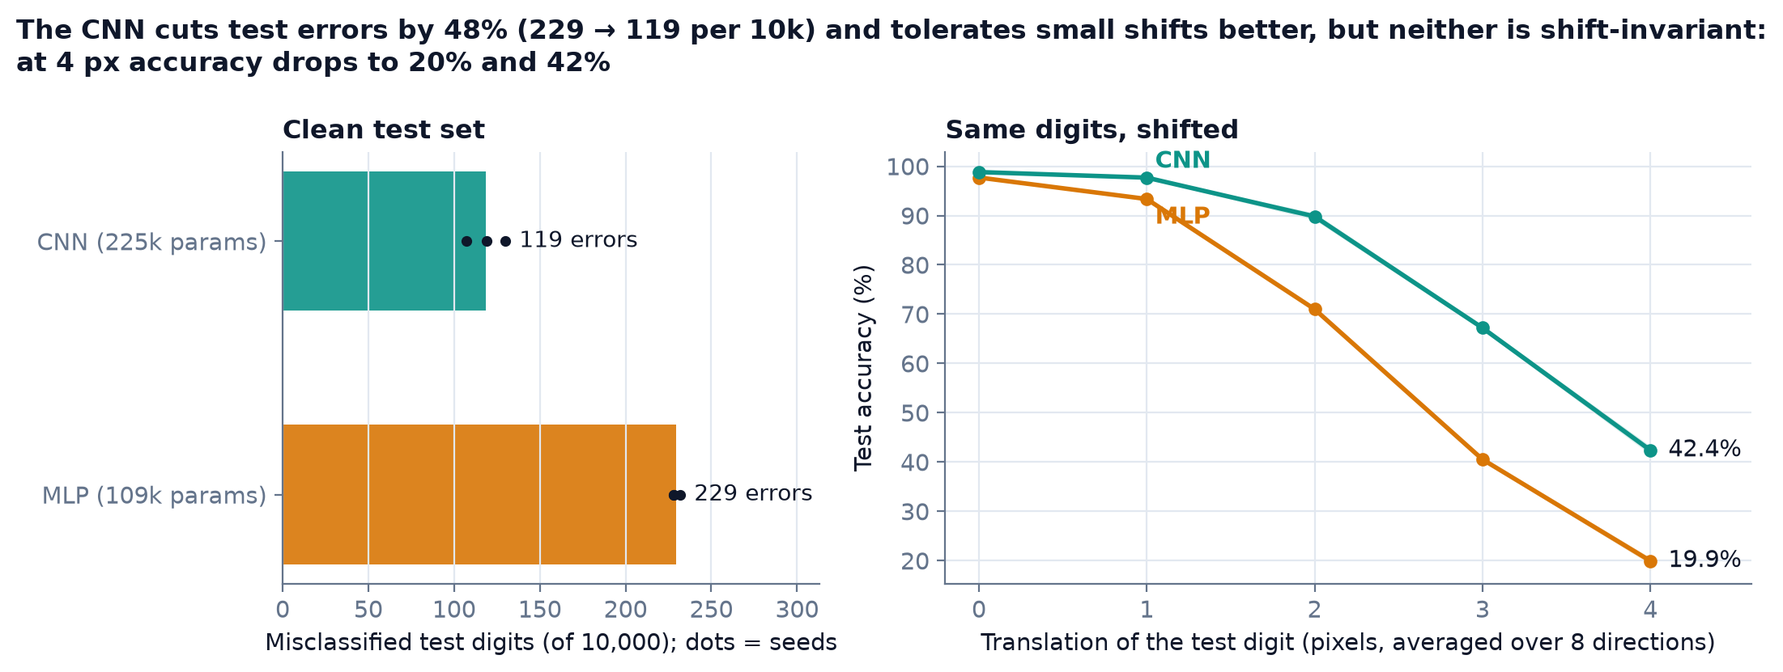
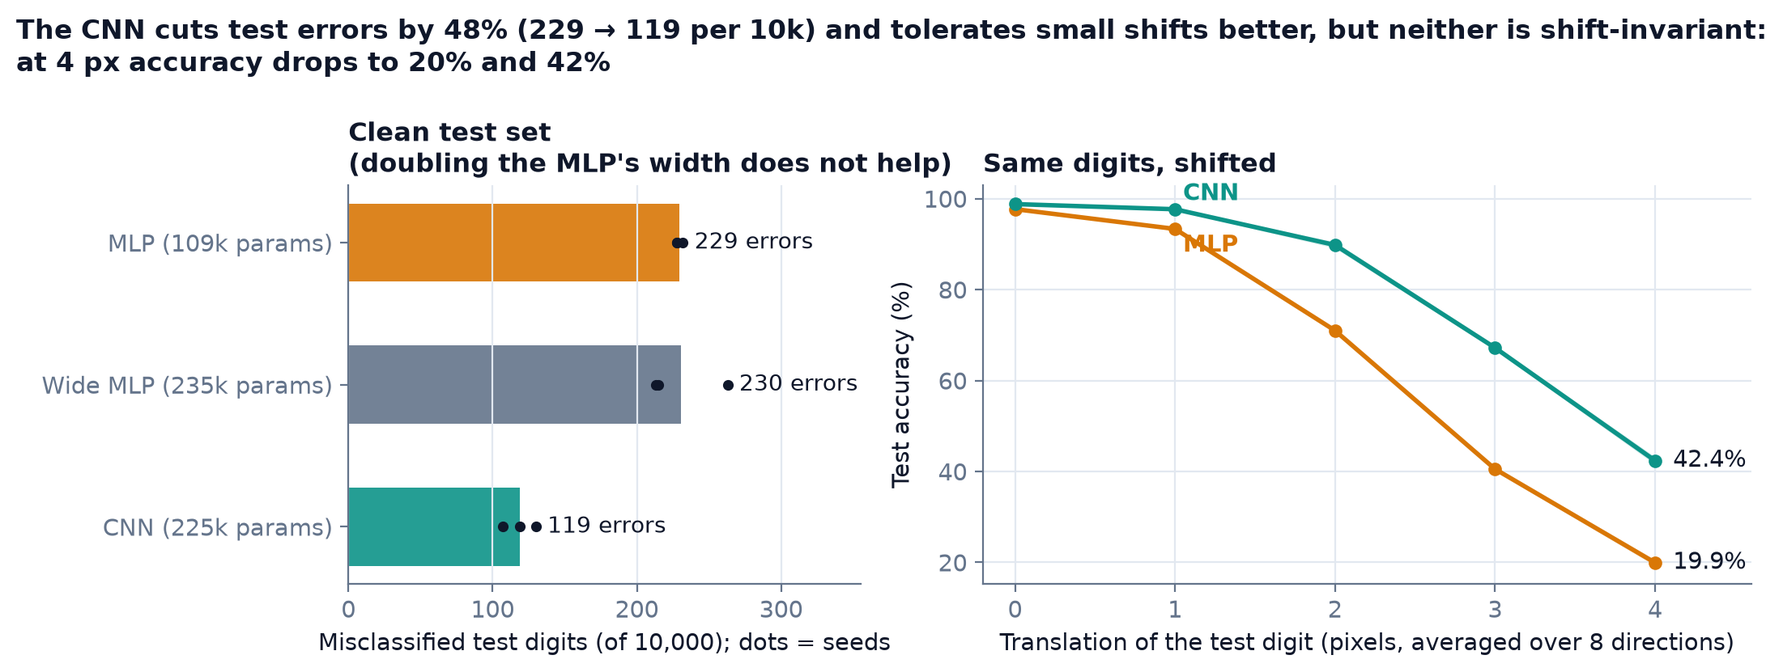
figures, report: show the capacity control and tighten wording
- Hero adds the wide MLP bar; other figures stay on the MLP/CNN comparison.
- Risk-coverage labels no longer cross the curves; budget label moved left.
- Reliability caption states that the diagram pools the seeds.
- Realised errors use two significant digits (0.015%, 0.059%).
- Report: capacity paragraph, calibration vs ranking, shift cropping note.
- shift.py docstring: 4 px shifts do crop some strokes (98.7% of ink kept).

diff --git a/site/index.html b/site/index.html
@@ -71,7 +71,7 @@ paired statistics, calibration, robustness to shifted inputs, and a concrete aut
 on the untouched 10,000-image test set. The <span class="amber">MLP</span> reaches 97.71% ± 0.02%,
 the <span class="teal">CNN</span> 98.81% ± 0.11% (mean ± sd across seeds).</p>
 <div id="c-errors" class="chart" style="height:240px"></div>
-<p class="takeaway">Within a model, seeds move the error count by at most 23 digits; switching architecture moves it by 111.</p>
+<p class="takeaway">Within the MLP or the CNN, seeds move the error count by at most 23 digits; switching architecture moves it by 111.</p>
 <p>Is the gap real or test-set luck? Two paired checks on the same 10,000 images. A paired bootstrap over
 test images puts the gain at +1.11 points (95% CI 0.90 to 1.32). McNemar's exact test, seed by
 seed, counts the digits only one model gets right: for seed 0, 44 digits only the MLP gets right
@@ -80,6 +80,12 @@ versus 165 only the CNN gets right (63 both miss); the largest p-value over seed
 <div class="scroll"><table>
 <thead><tr><th>Seed</th><th>Only MLP right</th><th>Only CNN right</th><th>Both wrong</th><th>McNemar p</th></tr></thead>
 <tbody><tr><td>0</td><td>44</td><td>165</td><td>63</td><td>1.2e-17</td></tr><tr><td>1</td><td>52</td><td>154</td><td>78</td><td>6.5e-13</td></tr><tr><td>2</td><td>53</td><td>162</td><td>66</td><td>4.9e-14</td></tr></tbody></table></div>
+<p><strong>Capacity or convolution?</strong> The CNN has about twice the MLP's parameters. A wider MLP
+(784-256-128-10, 235,146 parameters, more than the CNN) trained with the same recipe reaches
+97.70% ± 0.28%, i.e. 230 errors: no better than the small MLP. The CNN beats it by
++1.12 points (95% CI 0.92 to 1.32; largest McNemar p over seeds 4e-12), and the wide MLP
+is no more tolerant of shifts (70.9% at 2 px); under the error budget of section 3 it automates
+75.0% of the stream. Parameter count does not explain the gap.</p>
 
 <h2>2. Robustness: move the digit a few pixels</h2>
 <p>MNIST digits are centred by centre of mass. Real inputs rarely are. Each test digit is shifted by
@@ -96,15 +102,17 @@ with a budget of at most one error per 1,000 accepted digits (0.1%). The confide
 chosen on the validation split, then frozen and applied to the test set.</p>
 <div id="c-rc" class="chart"></div>
 <p class="takeaway">Under the same budget the MLP automates 68.2% of the test stream (realised error
-0.01%), the CNN 90.8% (realised error 0.06%): the manual queue shrinks from 31.8% to
+0.015%), the CNN 90.8% (realised error 0.059%): the manual queue shrinks from 31.8% to
 9.3% of the stream, a far larger gap than the 1.11-point accuracy difference suggests. The thresholds are
 conservative: with hindsight (tuning on the test set itself, which a real deployment cannot do) the same
 budget would allow 82.4% and 93.4%. The 6,000-digit validation split simply contains few
 errors to calibrate a 0.1% threshold on, and the MLP pays more for that caution.</p>
 
 <h2>4. Can the confidences be trusted?</h2>
-<p>Expected calibration error (15 equal-width bins): MLP 0.48%, CNN 0.24%. Points on the
-diagonal mean "90% confident" is right about 90% of the time.</p>
+<p>Expected calibration error (15 equal-width bins, mean over seeds): MLP 0.48%, CNN 0.24%.
+Points on the diagonal mean "90% confident" is right about 90% of the time. The diagram pools the
+3 seeds; over 93% of digits fall in the top bin, which dominates the ECE. Good calibration lets the
+score be read as a probability; the threshold rule of section 3 only needs the ranking of confidences.</p>
 <div id="c-rel" class="chart"></div>
 
 <h2>5. Where the errors are</h2>
@@ -116,13 +124,14 @@ diagonal mean "90% confident" is right about 90% of the time.</p>
 <div id="c-lc" class="chart" style="height:300px"></div>
 <div class="scroll"><table>
 <thead><tr><th>Model</th><th>Seed</th><th>Params</th><th>Best/run epochs</th><th>Val acc</th><th>Test acc</th><th>Test errors</th><th>Test NLL</th><th>ECE</th></tr></thead>
-<tbody><tr><td>MLP</td><td>0</td><td>109,386</td><td>8/10</td><td>97.45%</td><td>97.72%</td><td>228</td><td>0.0742</td><td>0.53%</td></tr><tr><td>MLP</td><td>1</td><td>109,386</td><td>8/10</td><td>97.37%</td><td>97.68%</td><td>232</td><td>0.0788</td><td>0.52%</td></tr><tr><td>MLP</td><td>2</td><td>109,386</td><td>8/10</td><td>97.42%</td><td>97.72%</td><td>228</td><td>0.0746</td><td>0.39%</td></tr><tr><td>CNN</td><td>0</td><td>225,034</td><td>4/6</td><td>98.77%</td><td>98.93%</td><td>107</td><td>0.0315</td><td>0.18%</td></tr><tr><td>CNN</td><td>1</td><td>225,034</td><td>4/6</td><td>98.58%</td><td>98.70%</td><td>130</td><td>0.0395</td><td>0.35%</td></tr><tr><td>CNN</td><td>2</td><td>225,034</td><td>4/6</td><td>98.75%</td><td>98.81%</td><td>119</td><td>0.0355</td><td>0.20%</td></tr></tbody></table></div>
+<tbody><tr><td>MLP</td><td>0</td><td>109,386</td><td>8/10</td><td>97.45%</td><td>97.72%</td><td>228</td><td>0.0742</td><td>0.53%</td></tr><tr><td>MLP</td><td>1</td><td>109,386</td><td>8/10</td><td>97.37%</td><td>97.68%</td><td>232</td><td>0.0788</td><td>0.52%</td></tr><tr><td>MLP</td><td>2</td><td>109,386</td><td>8/10</td><td>97.42%</td><td>97.72%</td><td>228</td><td>0.0746</td><td>0.39%</td></tr><tr><td>CNN</td><td>0</td><td>225,034</td><td>4/6</td><td>98.77%</td><td>98.93%</td><td>107</td><td>0.0315</td><td>0.18%</td></tr><tr><td>CNN</td><td>1</td><td>225,034</td><td>4/6</td><td>98.58%</td><td>98.70%</td><td>130</td><td>0.0395</td><td>0.35%</td></tr><tr><td>CNN</td><td>2</td><td>225,034</td><td>4/6</td><td>98.75%</td><td>98.81%</td><td>119</td><td>0.0355</td><td>0.20%</td></tr><tr><td>Wide MLP</td><td>0</td><td>235,146</td><td>7/9</td><td>97.70%</td><td>97.87%</td><td>213</td><td>0.0729</td><td>0.76%</td></tr><tr><td>Wide MLP</td><td>1</td><td>235,146</td><td>4/6</td><td>97.18%</td><td>97.37%</td><td>263</td><td>0.0855</td><td>0.43%</td></tr><tr><td>Wide MLP</td><td>2</td><td>235,146</td><td>4/6</td><td>97.50%</td><td>97.85%</td><td>215</td><td>0.0700</td><td>0.44%</td></tr></tbody></table></div>
 
 <h2>Limitations</h2>
 <ul>
 <li>3 seeds per model is enough to show the seed spread is small next to the gap, not to estimate it precisely.</li>
-<li>Neither architecture is tuned (no augmentation, no learning-rate schedule, no hyper-parameter search); the comparison is between two textbook models of similar size, not between the best of each family.</li>
-<li>The translation test is synthetic; it isolates one property (shift sensitivity) rather than modelling a real capture process.</li>
+<li>Neither architecture is tuned (no augmentation, no learning-rate schedule, no hyper-parameter search); the comparison is between two textbook models of the same order of size (the CNN has about twice the parameters), not between the best of each family.</li>
+<li>Architecture and capacity are separated by one control only: the wide MLP matches the CNN's parameter count, but both MLPs use dropout and the CNN does not, and no regularisation was tuned for either.</li>
+<li>The translation test is synthetic; it isolates one property (shift sensitivity) rather than modelling a real capture process. Diagonal directions move <em>d</em> px along each axis, and at 4 px about a quarter of shifted digits lose some stroke at the border (98.7% of ink kept on average), so part of the 4 px drop is lost information, not fragility.</li>
 <li>The 0.1% budget threshold is set on 6,000 validation digits, i.e. about six tolerated errors, so it is itself noisy; the realised test error is reported next to it.</li>
 </ul>
 
@@ -132,8 +141,8 @@ Built by <a href="https://github.com/Pchambet">Pierre Chambet</a> — decision s
 </footer>
 </main>
 <script>
-const D = {"runs": [{"model": "mlp", "seed": "0", "params": "109386", "epochs_run": "10", "best_epoch": "8", "train_seconds": "37.6", "val_accuracy": "0.974496", "test_accuracy": "0.9772", "test_errors": "228", "test_nll": "0.074188", "test_ece": "0.005285"}, {"model": "mlp", "seed": "1", "params": "109386", "epochs_run": "10", "best_epoch": "8", "train_seconds": "28.8", "val_accuracy": "0.973662", "test_accuracy": "0.9768", "test_errors": "232", "test_nll": "0.078802", "test_ece": "0.005169"}, {"model": "mlp", "seed": "2", "params": "109386", "epochs_run": "10", "best_epoch": "8", "train_seconds": "28.2", "val_accuracy": "0.974162", "test_accuracy": "0.9772", "test_errors": "228", "test_nll": "0.074635", "test_ece": "0.003874"}, {"model": "cnn", "seed": "0", "params": "225034", "epochs_run": "6", "best_epoch": "4", "train_seconds": "241.6", "val_accuracy": "0.987665", "test_accuracy": "0.9893", "test_errors": "107", "test_nll": "0.031523", "test_ece": "0.001799"}, {"model": "cnn", "seed": "1", "params": "225034", "epochs_run": "6", "best_epoch": "4", "train_seconds": "240.8", "val_accuracy": "0.985831", "test_accuracy": "0.987", "test_errors": "130", "test_nll": "0.039478", "test_ece": "0.003471"}, {"model": "cnn", "seed": "2", "params": "225034", "epochs_run": "6", "best_epoch": "4", "train_seconds": "196.5", "val_accuracy": "0.987498", "test_accuracy": "0.9881", "test_errors": "119", "test_nll": "0.035527", "test_ece": "0.001989"}], "shift": {"mlp": {"0": [0.9772, 0.9768, 0.9772], "1": [0.935963, 0.92935, 0.935175], "2": [0.705987, 0.71005, 0.713812], "3": [0.405975, 0.401587, 0.408237], "4": [0.206825, 0.193112, 0.1981]}, "cnn": {"0": [0.9893, 0.987, 0.9881], "1": [0.978988, 0.976225, 0.9753], "2": [0.904138, 0.899887, 0.890463], "3": [0.677037, 0.668087, 0.671087], "4": [0.422425, 0.415975, 0.43315]}}, "rc": {"mlp": {"x": [0.5, 0.505, 0.51, 0.515, 0.52, 0.525, 0.53, 0.535, 0.54, 0.545, 0.55, 0.555, 0.56, 0.565, 0.57, 0.575, 0.58, 0.585, 0.59, 0.595, 0.6, 0.605, 0.61, 0.615, 0.62, 0.625, 0.63, 0.635, 0.64, 0.645, 0.65, 0.655, 0.66, 0.665, 0.67, 0.675, 0.68, 0.685, 0.69, 0.695, 0.7, 0.705, 0.71, 0.715, 0.72, 0.725, 0.73, 0.735, 0.74, 0.745, 0.75, 0.755, 0.76, 0.765, 0.77, 0.775, 0.78, 0.785, 0.79, 0.795, 0.8, 0.805, 0.81, 0.815, 0.82, 0.825, 0.83, 0.835, 0.84, 0.845, 0.85, 0.855, 0.86, 0.865, 0.87, 0.875, 0.88, 0.885, 0.89, 0.895, 0.9, 0.905, 0.91, 0.915, 0.92, 0.925, 0.93, 0.935, 0.94, 0.945, 0.95, 0.955, 0.96, 0.965, 0.97, 0.975, 0.98, 0.985, 0.99, 0.995, 1.0], "y": [0.0, 0.0, 0.0, 0.0, 0.0, 0.0, 0.0, 0.0, 0.0, 6.1e-05, 6.1e-05, 6e-05, 6e-05, 5.9e-05, 5.8e-05, 5.8e-05, 5.7e-05, 5.7e-05, 0.000113, 0.000112, 0.000111, 0.00011, 0.000109, 0.000108, 0.000108, 0.000107, 0.000106, 0.000105, 0.000104, 0.000103, 0.000103, 0.000102, 0.000101, 0.0001, 0.000149, 0.000148, 0.000196, 0.000195, 0.000193, 0.000192, 0.00019, 0.000236, 0.000235, 0.000233, 0.000278, 0.000276, 0.00032, 0.000317, 0.000315, 0.000313, 0.000356, 0.000397, 0.000395, 0.000392, 0.000476, 0.000473, 0.000513, 0.000552, 0.000591, 0.000629, 0.00075, 0.000787, 0.000823, 0.000818, 0.000976, 0.00101, 0.001165, 0.001238, 0.00131, 0.001302, 0.001529, 0.00152, 0.001783, 0.00185, 0.002107, 0.002362, 0.002462, 0.002486, 0.002584, 0.002644, 0.002926, 0.00302, 0.00337, 0.003424, 0.003949, 0.004396, 0.004695, 0.004991, 0.005532, 0.006102, 0.006982, 0.0074, 0.008368, 0.009534, 0.010928, 0.012, 0.013776, 0.015431, 0.017609, 0.020034, 0.022933]}, "cnn": {"x": [0.5, 0.505, 0.51, 0.515, 0.52, 0.525, 0.53, 0.535, 0.54, 0.545, 0.55, 0.555, 0.56, 0.565, 0.57, 0.575, 0.58, 0.585, 0.59, 0.595, 0.6, 0.605, 0.61, 0.615, 0.62, 0.625, 0.63, 0.635, 0.64, 0.645, 0.65, 0.655, 0.66, 0.665, 0.67, 0.675, 0.68, 0.685, 0.69, 0.695, 0.7, 0.705, 0.71, 0.715, 0.72, 0.725, 0.73, 0.735, 0.74, 0.745, 0.75, 0.755, 0.76, 0.765, 0.77, 0.775, 0.78, 0.785, 0.79, 0.795, 0.8, 0.805, 0.81, 0.815, 0.82, 0.825, 0.83, 0.835, 0.84, 0.845, 0.85, 0.855, 0.86, 0.865, 0.87, 0.875, 0.88, 0.885, 0.89, 0.895, 0.9, 0.905, 0.91, 0.915, 0.92, 0.925, 0.93, 0.935, 0.94, 0.945, 0.95, 0.955, 0.96, 0.965, 0.97, 0.975, 0.98, 0.985, 0.99, 0.995, 1.0], "y": [0.0, 0.0, 0.0, 0.0, 0.0, 0.0, 0.0, 0.0, 0.0, 0.0, 0.0, 0.0, 0.0, 0.0, 0.0, 0.0, 0.0, 0.0, 0.0, 0.0, 0.0, 0.0, 0.0, 0.0, 0.0, 0.0, 0.0, 0.0, 0.0, 0.0, 0.0, 0.0, 0.0, 0.0, 0.0, 0.0, 0.0, 0.0, 0.0, 0.0, 4.8e-05, 4.7e-05, 4.7e-05, 4.7e-05, 4.6e-05, 4.6e-05, 4.6e-05, 4.5e-05, 9e-05, 8.9e-05, 8.9e-05, 8.8e-05, 8.8e-05, 0.000131, 0.000173, 0.000172, 0.000171, 0.00017, 0.000211, 0.00021, 0.000208, 0.000207, 0.000206, 0.000204, 0.000203, 0.000202, 0.000201, 0.00024, 0.000238, 0.000237, 0.000235, 0.000273, 0.000271, 0.00027, 0.000345, 0.000381, 0.000379, 0.000452, 0.000449, 0.000447, 0.000519, 0.000552, 0.000586, 0.000729, 0.000725, 0.000829, 0.001039, 0.001212, 0.001383, 0.001552, 0.001719, 0.00199, 0.002118, 0.002453, 0.002887, 0.003487, 0.004524, 0.005787, 0.00734, 0.00928, 0.011867]}}, "rel": {"mlp": {"x": [0.250333, 0.299662, 0.372533, 0.434442, 0.503477, 0.564116, 0.6341, 0.703217, 0.767691, 0.835397, 0.903526, 0.997099], "y": [0.0, 0.2, 0.40625, 0.44898, 0.47619, 0.513812, 0.64881, 0.642105, 0.764463, 0.792135, 0.877517, 0.995006], "n": [2, 5, 32, 49, 147, 181, 168, 190, 242, 356, 596, 28032]}, "cnn": {"x": [0.251832, 0.299552, 0.370574, 0.436044, 0.504921, 0.567232, 0.636144, 0.69835, 0.771046, 0.836204, 0.90542, 0.998067], "y": [0.0, 0.5, 0.222222, 0.291667, 0.486111, 0.612903, 0.603604, 0.719298, 0.705882, 0.795699, 0.907781, 0.997544], "n": [1, 2, 9, 24, 72, 93, 111, 114, 136, 186, 347, 28905]}}, "lc": {"mlp|0": {"x": [1, 2, 3, 4, 5, 6, 7, 8, 9, 10], "y": [0.190585, 0.14004, 0.109203, 0.099635, 0.091008, 0.091568, 0.090112, 0.089724, 0.096549, 0.091101]}, "mlp|1": {"x": [1, 2, 3, 4, 5, 6, 7, 8, 9, 10], "y": [0.199384, 0.139483, 0.118554, 0.101779, 0.095743, 0.093194, 0.093634, 0.089334, 0.090413, 0.090308]}, "mlp|2": {"x": [1, 2, 3, 4, 5, 6, 7, 8, 9, 10], "y": [0.18016, 0.134014, 0.107996, 0.09635, 0.090398, 0.08589, 0.084463, 0.081902, 0.088632, 0.083011]}, "cnn|0": {"x": [1, 2, 3, 4, 5, 6], "y": [0.080429, 0.058647, 0.047417, 0.043901, 0.045862, 0.045899]}, "cnn|1": {"x": [1, 2, 3, 4, 5, 6], "y": [0.073891, 0.061324, 0.050676, 0.043554, 0.048997, 0.055597]}, "cnn|2": {"x": [1, 2, 3, 4, 5, 6], "y": [0.079884, 0.056562, 0.046871, 0.045564, 0.046403, 0.047933]}}};
-const S = {"error_budget": 0.001, "n_test": 10000, "models": {"mlp": {"seeds": [0, 1, 2], "params": 109386, "test_accuracy_mean": 0.977067, "test_accuracy_std": 0.000231, "test_errors_mean": 229.3, "ece_mean": 0.004776, "nll_mean": 0.075875, "shift_accuracy_mean": [0.977067, 0.933496, 0.70995, 0.405267, 0.199346], "shift_accuracy_std": [0.000231, 0.003612, 0.003913, 0.003381, 0.006941], "error_budget_runs": [{"seed": 0, "threshold": 0.999499, "test_coverage": 0.6727, "test_error": 0.000297, "oracle_test_coverage": 0.8235}, {"seed": 1, "threshold": 0.999295, "test_coverage": 0.6635, "test_error": 0.0, "oracle_test_coverage": 0.829}, {"seed": 2, "threshold": 0.998541, "test_coverage": 0.7101, "test_error": 0.000141, "oracle_test_coverage": 0.8199}], "error_budget_coverage_mean": 0.6821, "error_budget_error_mean": 0.000146, "error_budget_oracle_coverage_mean": 0.824133, "top_confusions": [[4, 9, 43], [7, 2, 33], [3, 5, 29], [6, 0, 21], [9, 4, 21]]}, "cnn": {"seeds": [0, 1, 2], "params": 225034, "test_accuracy_mean": 0.988133, "test_accuracy_std": 0.00115, "test_errors_mean": 118.7, "ece_mean": 0.00242, "nll_mean": 0.035509, "shift_accuracy_mean": [0.988133, 0.976837, 0.898163, 0.672071, 0.42385], "shift_accuracy_std": [0.00115, 0.001919, 0.006999, 0.004555, 0.008676], "error_budget_runs": [{"seed": 0, "threshold": 0.992942, "test_coverage": 0.9123, "test_error": 0.000548, "oracle_test_coverage": 0.9489}, {"seed": 1, "threshold": 0.992211, "test_coverage": 0.908, "test_error": 0.000551, "oracle_test_coverage": 0.925}, {"seed": 2, "threshold": 0.990728, "test_coverage": 0.9022, "test_error": 0.000665, "oracle_test_coverage": 0.929}], "error_budget_coverage_mean": 0.9075, "error_budget_error_mean": 0.000588, "error_budget_oracle_coverage_mean": 0.9343, "top_confusions": [[4, 9, 29], [2, 7, 19], [5, 3, 19], [6, 0, 16], [7, 2, 16]]}}, "comparison": {"accuracy_gain_cnn_minus_mlp": 0.011067, "bootstrap_95ci": [0.009033, 0.013233], "mcnemar_per_seed": [{"seed": 0, "only_mlp_correct": 44, "only_cnn_correct": 165, "both_wrong": 63, "p_value": 1.15e-17}, {"seed": 1, "only_mlp_correct": 52, "only_cnn_correct": 154, "both_wrong": 78, "p_value": 6.54e-13}, {"seed": 2, "only_mlp_correct": 53, "only_cnn_correct": 162, "both_wrong": 66, "p_value": 4.94e-14}]}, "gallery": [{"index": 9770, "label": 5, "cnn_pred": 0, "cnn_conf": 1.0, "mlp_pred": 0}, {"index": 2654, "label": 6, "cnn_pred": 1, "cnn_conf": 0.999, "mlp_pred": 1}, {"index": 2896, "label": 8, "cnn_pred": 0, "cnn_conf": 0.997, "mlp_pred": 0}, {"index": 3520, "label": 6, "cnn_pred": 4, "cnn_conf": 0.996, "mlp_pred": 4}, {"index": 947, "label": 8, "cnn_pred": 9, "cnn_conf": 0.993, "mlp_pred": 9}, {"index": 9729, "label": 5, "cnn_pred": 6, "cnn_conf": 0.986, "mlp_pred": 6}, {"index": 2953, "label": 3, "cnn_pred": 5, "cnn_conf": 0.985, "mlp_pred": 5}, {"index": 2130, "label": 4, "cnn_pred": 9, "cnn_conf": 0.983, "mlp_pred": 9}, {"index": 1319, "label": 8, "cnn_pred": 0, "cnn_conf": 0.978, "mlp_pred": 0}, {"index": 6597, "label": 0, "cnn_pred": 7, "cnn_conf": 0.973, "mlp_pred": 7}, {"index": 2135, "label": 6, "cnn_pred": 1, "cnn_conf": 0.969, "mlp_pred": 1}, {"index": 1226, "label": 7, "cnn_pred": 2, "cnn_conf": 0.968, "mlp_pred": 2}]};
+const D = {"runs": [{"model": "mlp", "seed": "0", "params": "109386", "epochs_run": "10", "best_epoch": "8", "train_seconds": "37.6", "val_accuracy": "0.974496", "test_accuracy": "0.9772", "test_errors": "228", "test_nll": "0.074188", "test_ece": "0.005285"}, {"model": "mlp", "seed": "1", "params": "109386", "epochs_run": "10", "best_epoch": "8", "train_seconds": "28.8", "val_accuracy": "0.973662", "test_accuracy": "0.9768", "test_errors": "232", "test_nll": "0.078802", "test_ece": "0.005169"}, {"model": "mlp", "seed": "2", "params": "109386", "epochs_run": "10", "best_epoch": "8", "train_seconds": "28.2", "val_accuracy": "0.974162", "test_accuracy": "0.9772", "test_errors": "228", "test_nll": "0.074635", "test_ece": "0.003874"}, {"model": "cnn", "seed": "0", "params": "225034", "epochs_run": "6", "best_epoch": "4", "train_seconds": "241.6", "val_accuracy": "0.987665", "test_accuracy": "0.9893", "test_errors": "107", "test_nll": "0.031523", "test_ece": "0.001799"}, {"model": "cnn", "seed": "1", "params": "225034", "epochs_run": "6", "best_epoch": "4", "train_seconds": "240.8", "val_accuracy": "0.985831", "test_accuracy": "0.987", "test_errors": "130", "test_nll": "0.039478", "test_ece": "0.003471"}, {"model": "cnn", "seed": "2", "params": "225034", "epochs_run": "6", "best_epoch": "4", "train_seconds": "196.5", "val_accuracy": "0.987498", "test_accuracy": "0.9881", "test_errors": "119", "test_nll": "0.035527", "test_ece": "0.001989"}, {"model": "mlp_wide", "seed": "0", "params": "235146", "epochs_run": "9", "best_epoch": "7", "train_seconds": "45.4", "val_accuracy": "0.976996", "test_accuracy": "0.9787", "test_errors": "213", "test_nll": "0.072905", "test_ece": "0.007551"}, {"model": "mlp_wide", "seed": "1", "params": "235146", "epochs_run": "6", "best_epoch": "4", "train_seconds": "30.8", "val_accuracy": "0.971829", "test_accuracy": "0.9737", "test_errors": "263", "test_nll": "0.085469", "test_ece": "0.004287"}, {"model": "mlp_wide", "seed": "2", "params": "235146", "epochs_run": "6", "best_epoch": "4", "train_seconds": "40.4", "val_accuracy": "0.974996", "test_accuracy": "0.9785", "test_errors": "215", "test_nll": "0.070016", "test_ece": "0.004401"}], "shift": {"mlp": {"0": [0.9772, 0.9768, 0.9772], "1": [0.935963, 0.92935, 0.935175], "2": [0.705987, 0.71005, 0.713812], "3": [0.405975, 0.401587, 0.408237], "4": [0.206825, 0.193112, 0.1981]}, "cnn": {"0": [0.9893, 0.987, 0.9881], "1": [0.978988, 0.976225, 0.9753], "2": [0.904138, 0.899887, 0.890463], "3": [0.677037, 0.668087, 0.671087], "4": [0.422425, 0.415975, 0.43315]}, "mlp_wide": {"0": [0.9787, 0.9737, 0.9785], "1": [0.943712, 0.923975, 0.93125], "2": [0.738325, 0.688512, 0.700113], "3": [0.439387, 0.400888, 0.399263], "4": [0.222188, 0.199988, 0.19335]}}, "rc": {"mlp": {"x": [0.5, 0.505, 0.51, 0.515, 0.52, 0.525, 0.53, 0.535, 0.54, 0.545, 0.55, 0.555, 0.56, 0.565, 0.57, 0.575, 0.58, 0.585, 0.59, 0.595, 0.6, 0.605, 0.61, 0.615, 0.62, 0.625, 0.63, 0.635, 0.64, 0.645, 0.65, 0.655, 0.66, 0.665, 0.67, 0.675, 0.68, 0.685, 0.69, 0.695, 0.7, 0.705, 0.71, 0.715, 0.72, 0.725, 0.73, 0.735, 0.74, 0.745, 0.75, 0.755, 0.76, 0.765, 0.77, 0.775, 0.78, 0.785, 0.79, 0.795, 0.8, 0.805, 0.81, 0.815, 0.82, 0.825, 0.83, 0.835, 0.84, 0.845, 0.85, 0.855, 0.86, 0.865, 0.87, 0.875, 0.88, 0.885, 0.89, 0.895, 0.9, 0.905, 0.91, 0.915, 0.92, 0.925, 0.93, 0.935, 0.94, 0.945, 0.95, 0.955, 0.96, 0.965, 0.97, 0.975, 0.98, 0.985, 0.99, 0.995, 1.0], "y": [0.0, 0.0, 0.0, 0.0, 0.0, 0.0, 0.0, 0.0, 0.0, 6.1e-05, 6.1e-05, 6e-05, 6e-05, 5.9e-05, 5.8e-05, 5.8e-05, 5.7e-05, 5.7e-05, 0.000113, 0.000112, 0.000111, 0.00011, 0.000109, 0.000108, 0.000108, 0.000107, 0.000106, 0.000105, 0.000104, 0.000103, 0.000103, 0.000102, 0.000101, 0.0001, 0.000149, 0.000148, 0.000196, 0.000195, 0.000193, 0.000192, 0.00019, 0.000236, 0.000235, 0.000233, 0.000278, 0.000276, 0.00032, 0.000317, 0.000315, 0.000313, 0.000356, 0.000397, 0.000395, 0.000392, 0.000476, 0.000473, 0.000513, 0.000552, 0.000591, 0.000629, 0.00075, 0.000787, 0.000823, 0.000818, 0.000976, 0.00101, 0.001165, 0.001238, 0.00131, 0.001302, 0.001529, 0.00152, 0.001783, 0.00185, 0.002107, 0.002362, 0.002462, 0.002486, 0.002584, 0.002644, 0.002926, 0.00302, 0.00337, 0.003424, 0.003949, 0.004396, 0.004695, 0.004991, 0.005532, 0.006102, 0.006982, 0.0074, 0.008368, 0.009534, 0.010928, 0.012, 0.013776, 0.015431, 0.017609, 0.020034, 0.022933]}, "cnn": {"x": [0.5, 0.505, 0.51, 0.515, 0.52, 0.525, 0.53, 0.535, 0.54, 0.545, 0.55, 0.555, 0.56, 0.565, 0.57, 0.575, 0.58, 0.585, 0.59, 0.595, 0.6, 0.605, 0.61, 0.615, 0.62, 0.625, 0.63, 0.635, 0.64, 0.645, 0.65, 0.655, 0.66, 0.665, 0.67, 0.675, 0.68, 0.685, 0.69, 0.695, 0.7, 0.705, 0.71, 0.715, 0.72, 0.725, 0.73, 0.735, 0.74, 0.745, 0.75, 0.755, 0.76, 0.765, 0.77, 0.775, 0.78, 0.785, 0.79, 0.795, 0.8, 0.805, 0.81, 0.815, 0.82, 0.825, 0.83, 0.835, 0.84, 0.845, 0.85, 0.855, 0.86, 0.865, 0.87, 0.875, 0.88, 0.885, 0.89, 0.895, 0.9, 0.905, 0.91, 0.915, 0.92, 0.925, 0.93, 0.935, 0.94, 0.945, 0.95, 0.955, 0.96, 0.965, 0.97, 0.975, 0.98, 0.985, 0.99, 0.995, 1.0], "y": [0.0, 0.0, 0.0, 0.0, 0.0, 0.0, 0.0, 0.0, 0.0, 0.0, 0.0, 0.0, 0.0, 0.0, 0.0, 0.0, 0.0, 0.0, 0.0, 0.0, 0.0, 0.0, 0.0, 0.0, 0.0, 0.0, 0.0, 0.0, 0.0, 0.0, 0.0, 0.0, 0.0, 0.0, 0.0, 0.0, 0.0, 0.0, 0.0, 0.0, 4.8e-05, 4.7e-05, 4.7e-05, 4.7e-05, 4.6e-05, 4.6e-05, 4.6e-05, 4.5e-05, 9e-05, 8.9e-05, 8.9e-05, 8.8e-05, 8.8e-05, 0.000131, 0.000173, 0.000172, 0.000171, 0.00017, 0.000211, 0.00021, 0.000208, 0.000207, 0.000206, 0.000204, 0.000203, 0.000202, 0.000201, 0.00024, 0.000238, 0.000237, 0.000235, 0.000273, 0.000271, 0.00027, 0.000345, 0.000381, 0.000379, 0.000452, 0.000449, 0.000447, 0.000519, 0.000552, 0.000586, 0.000729, 0.000725, 0.000829, 0.001039, 0.001212, 0.001383, 0.001552, 0.001719, 0.00199, 0.002118, 0.002453, 0.002887, 0.003487, 0.004524, 0.005787, 0.00734, 0.00928, 0.011867]}, "mlp_wide": {"x": [0.5, 0.505, 0.51, 0.515, 0.52, 0.525, 0.53, 0.535, 0.54, 0.545, 0.55, 0.555, 0.56, 0.565, 0.57, 0.575, 0.58, 0.585, 0.59, 0.595, 0.6, 0.605, 0.61, 0.615, 0.62, 0.625, 0.63, 0.635, 0.64, 0.645, 0.65, 0.655, 0.66, 0.665, 0.67, 0.675, 0.68, 0.685, 0.69, 0.695, 0.7, 0.705, 0.71, 0.715, 0.72, 0.725, 0.73, 0.735, 0.74, 0.745, 0.75, 0.755, 0.76, 0.765, 0.77, 0.775, 0.78, 0.785, 0.79, 0.795, 0.8, 0.805, 0.81, 0.815, 0.82, 0.825, 0.83, 0.835, 0.84, 0.845, 0.85, 0.855, 0.86, 0.865, 0.87, 0.875, 0.88, 0.885, 0.89, 0.895, 0.9, 0.905, 0.91, 0.915, 0.92, 0.925, 0.93, 0.935, 0.94, 0.945, 0.95, 0.955, 0.96, 0.965, 0.97, 0.975, 0.98, 0.985, 0.99, 0.995, 1.0], "y": [6.7e-05, 6.6e-05, 6.5e-05, 0.000129, 0.000128, 0.000127, 0.000126, 0.000125, 0.000123, 0.000122, 0.000121, 0.00012, 0.000119, 0.000118, 0.000117, 0.000116, 0.000115, 0.000114, 0.000113, 0.000112, 0.000111, 0.00011, 0.000109, 0.000108, 0.000108, 0.000107, 0.000106, 0.000105, 0.000156, 0.000207, 0.000205, 0.000204, 0.000202, 0.000201, 0.000199, 0.000198, 0.000245, 0.000243, 0.000242, 0.00024, 0.000238, 0.000236, 0.000235, 0.000233, 0.000231, 0.00023, 0.000228, 0.000227, 0.000225, 0.000268, 0.000311, 0.000309, 0.000395, 0.000392, 0.00039, 0.000387, 0.000385, 0.000382, 0.000464, 0.000461, 0.000542, 0.00058, 0.000617, 0.000654, 0.000813, 0.000848, 0.000884, 0.000958, 0.001151, 0.001302, 0.001294, 0.001365, 0.001589, 0.001618, 0.001724, 0.001829, 0.001894, 0.002109, 0.002434, 0.002644, 0.002741, 0.003094, 0.003223, 0.003607, 0.003841, 0.004216, 0.004588, 0.005134, 0.005674, 0.006349, 0.007123, 0.007679, 0.008646, 0.009637, 0.011031, 0.012513, 0.014524, 0.016142, 0.018114, 0.020302, 0.023033]}}, "rel": {"mlp": {"x": [0.250333, 0.299662, 0.372533, 0.434442, 0.503477, 0.564116, 0.6341, 0.703217, 0.767691, 0.835397, 0.903526, 0.997099], "y": [0.0, 0.2, 0.40625, 0.44898, 0.47619, 0.513812, 0.64881, 0.642105, 0.764463, 0.792135, 0.877517, 0.995006], "n": [2, 5, 32, 49, 147, 181, 168, 190, 242, 356, 596, 28032]}, "cnn": {"x": [0.251832, 0.299552, 0.370574, 0.436044, 0.504921, 0.567232, 0.636144, 0.69835, 0.771046, 0.836204, 0.90542, 0.998067], "y": [0.0, 0.5, 0.222222, 0.291667, 0.486111, 0.612903, 0.603604, 0.719298, 0.705882, 0.795699, 0.907781, 0.997544], "n": [1, 2, 9, 24, 72, 93, 111, 114, 136, 186, 347, 28905]}, "mlp_wide": {"x": [0.26291, 0.309317, 0.374389, 0.439732, 0.50482, 0.566351, 0.633935, 0.70151, 0.76812, 0.838517, 0.904729, 0.996884], "y": [0.0, 0.1, 0.518519, 0.387097, 0.548872, 0.56962, 0.604278, 0.633333, 0.746212, 0.811429, 0.87602, 0.994926], "n": [1, 10, 27, 62, 133, 158, 187, 210, 264, 350, 613, 27985]}}, "lc": {"mlp|0": {"x": [1, 2, 3, 4, 5, 6, 7, 8, 9, 10], "y": [0.190585, 0.14004, 0.109203, 0.099635, 0.091008, 0.091568, 0.090112, 0.089724, 0.096549, 0.091101]}, "mlp|1": {"x": [1, 2, 3, 4, 5, 6, 7, 8, 9, 10], "y": [0.199384, 0.139483, 0.118554, 0.101779, 0.095743, 0.093194, 0.093634, 0.089334, 0.090413, 0.090308]}, "mlp|2": {"x": [1, 2, 3, 4, 5, 6, 7, 8, 9, 10], "y": [0.18016, 0.134014, 0.107996, 0.09635, 0.090398, 0.08589, 0.084463, 0.081902, 0.088632, 0.083011]}, "cnn|0": {"x": [1, 2, 3, 4, 5, 6], "y": [0.080429, 0.058647, 0.047417, 0.043901, 0.045862, 0.045899]}, "cnn|1": {"x": [1, 2, 3, 4, 5, 6], "y": [0.073891, 0.061324, 0.050676, 0.043554, 0.048997, 0.055597]}, "cnn|2": {"x": [1, 2, 3, 4, 5, 6], "y": [0.079884, 0.056562, 0.046871, 0.045564, 0.046403, 0.047933]}, "mlp_wide|0": {"x": [1, 2, 3, 4, 5, 6, 7, 8, 9], "y": [0.147924, 0.114249, 0.101424, 0.087078, 0.081437, 0.080506, 0.079892, 0.081899, 0.087762]}, "mlp_wide|1": {"x": [1, 2, 3, 4, 5, 6], "y": [0.157477, 0.117628, 0.097936, 0.088516, 0.10695, 0.097057]}, "mlp_wide|2": {"x": [1, 2, 3, 4, 5, 6], "y": [0.152462, 0.10312, 0.091016, 0.078554, 0.083232, 0.078743]}}};
+const S = {"error_budget": 0.001, "n_test": 10000, "models": {"mlp": {"seeds": [0, 1, 2], "params": 109386, "test_accuracy_mean": 0.977067, "test_accuracy_std": 0.000231, "test_errors_mean": 229.3, "ece_mean": 0.004776, "nll_mean": 0.075875, "shift_accuracy_mean": [0.977067, 0.933496, 0.70995, 0.405267, 0.199346], "shift_accuracy_std": [0.000231, 0.003612, 0.003913, 0.003381, 0.006941], "error_budget_runs": [{"seed": 0, "threshold": 0.999499, "test_coverage": 0.6727, "test_error": 0.000297, "oracle_test_coverage": 0.8235}, {"seed": 1, "threshold": 0.999295, "test_coverage": 0.6635, "test_error": 0.0, "oracle_test_coverage": 0.829}, {"seed": 2, "threshold": 0.998541, "test_coverage": 0.7101, "test_error": 0.000141, "oracle_test_coverage": 0.8199}], "error_budget_coverage_mean": 0.6821, "error_budget_error_mean": 0.000146, "error_budget_oracle_coverage_mean": 0.824133, "top_confusions": [[4, 9, 43], [7, 2, 33], [3, 5, 29], [6, 0, 21], [9, 4, 21]]}, "cnn": {"seeds": [0, 1, 2], "params": 225034, "test_accuracy_mean": 0.988133, "test_accuracy_std": 0.00115, "test_errors_mean": 118.7, "ece_mean": 0.00242, "nll_mean": 0.035509, "shift_accuracy_mean": [0.988133, 0.976837, 0.898163, 0.672071, 0.42385], "shift_accuracy_std": [0.00115, 0.001919, 0.006999, 0.004555, 0.008676], "error_budget_runs": [{"seed": 0, "threshold": 0.992942, "test_coverage": 0.9123, "test_error": 0.000548, "oracle_test_coverage": 0.9489}, {"seed": 1, "threshold": 0.992211, "test_coverage": 0.908, "test_error": 0.000551, "oracle_test_coverage": 0.925}, {"seed": 2, "threshold": 0.990728, "test_coverage": 0.9022, "test_error": 0.000665, "oracle_test_coverage": 0.929}], "error_budget_coverage_mean": 0.9075, "error_budget_error_mean": 0.000588, "error_budget_oracle_coverage_mean": 0.9343, "top_confusions": [[4, 9, 29], [2, 7, 19], [5, 3, 19], [6, 0, 16], [7, 2, 16]]}, "mlp_wide": {"seeds": [0, 1, 2], "params": 235146, "test_accuracy_mean": 0.976967, "test_accuracy_std": 0.002831, "test_errors_mean": 230.3, "ece_mean": 0.005413, "nll_mean": 0.07613, "shift_accuracy_mean": [0.976967, 0.932979, 0.708983, 0.413179, 0.205175], "shift_accuracy_std": [0.002831, 0.009982, 0.026064, 0.022712, 0.015102], "error_budget_runs": [{"seed": 0, "threshold": 0.998641, "test_coverage": 0.812, "test_error": 0.000493, "oracle_test_coverage": 0.8556}, {"seed": 1, "threshold": 0.996178, "test_coverage": 0.7462, "test_error": 0.000536, "oracle_test_coverage": 0.83}, {"seed": 2, "threshold": 0.998119, "test_coverage": 0.6907, "test_error": 0.000145, "oracle_test_coverage": 0.8213}], "error_budget_coverage_mean": 0.749633, "error_budget_error_mean": 0.000391, "error_budget_oracle_coverage_mean": 0.835633, "top_confusions": [[4, 9, 41], [5, 3, 30], [7, 2, 26], [6, 0, 23], [9, 3, 22]]}}, "comparison": {"accuracy_gain_cnn_minus_mlp": 0.011067, "bootstrap_95ci": [0.009033, 0.013233], "mcnemar_per_seed": [{"seed": 0, "only_mlp_correct": 44, "only_cnn_correct": 165, "both_wrong": 63, "p_value": 1.15e-17}, {"seed": 1, "only_mlp_correct": 52, "only_cnn_correct": 154, "both_wrong": 78, "p_value": 6.54e-13}, {"seed": 2, "only_mlp_correct": 53, "only_cnn_correct": 162, "both_wrong": 66, "p_value": 4.94e-14}]}, "capacity_control": {"accuracy_gain_cnn_minus_mlp_wide": 0.011167, "bootstrap_95ci": [0.009167, 0.013233], "mcnemar_per_seed": [{"seed": 0, "only_mlp_wide_correct": 39, "only_cnn_correct": 145, "both_wrong": 68, "p_value": 1.5e-15}, {"seed": 1, "only_mlp_wide_correct": 50, "only_cnn_correct": 183, "both_wrong": 80, "p_value": 5.22e-19}, {"seed": 2, "only_mlp_wide_correct": 50, "only_cnn_correct": 146, "both_wrong": 69, "p_value": 4.26e-12}]}, "gallery": [{"index": 9770, "label": 5, "cnn_pred": 0, "cnn_conf": 1.0, "mlp_pred": 0}, {"index": 2654, "label": 6, "cnn_pred": 1, "cnn_conf": 0.999, "mlp_pred": 1}, {"index": 2896, "label": 8, "cnn_pred": 0, "cnn_conf": 0.997, "mlp_pred": 0}, {"index": 3520, "label": 6, "cnn_pred": 4, "cnn_conf": 0.996, "mlp_pred": 4}, {"index": 947, "label": 8, "cnn_pred": 9, "cnn_conf": 0.993, "mlp_pred": 9}, {"index": 9729, "label": 5, "cnn_pred": 6, "cnn_conf": 0.986, "mlp_pred": 6}, {"index": 2953, "label": 3, "cnn_pred": 5, "cnn_conf": 0.985, "mlp_pred": 5}, {"index": 2130, "label": 4, "cnn_pred": 9, "cnn_conf": 0.983, "mlp_pred": 9}, {"index": 1319, "label": 8, "cnn_pred": 0, "cnn_conf": 0.978, "mlp_pred": 0}, {"index": 6597, "label": 0, "cnn_pred": 7, "cnn_conf": 0.973, "mlp_pred": 7}, {"index": 2135, "label": 6, "cnn_pred": 1, "cnn_conf": 0.969, "mlp_pred": 1}, {"index": 1226, "label": 7, "cnn_pred": 2, "cnn_conf": 0.968, "mlp_pred": 2}]};
 const C = { mlp: "#d97706", cnn: "#0d9488" };
 const NAME = { mlp: "MLP", cnn: "CNN" };
 function css(v) { return getComputedStyle(document.documentElement).getPropertyValue(v).trim(); }
@@ -199,7 +208,7 @@ function draw() {
 
   // 5. learning curves
   const seen = {};
-  Plotly.react("c-lc", Object.entries(D.lc).map(([k, v]) => {
+  Plotly.react("c-lc", Object.entries(D.lc).filter(([k]) => models.includes(k.split("|")[0])).map(([k, v]) => {
     const m = k.split("|")[0], first = !seen[m]; seen[m] = true;
     return { type: "scatter", mode: "lines+markers", name: NAME[m], legendgroup: m, showlegend: first,
       x: v.x, y: v.y, line: { color: C[m], width: 2 }, marker: { size: 6, color: C[m] },

diff --git a/src/mnist_study/report.py b/src/mnist_study/report.py
@@ -16,6 +16,7 @@ from mnist_study.analyze import RESULTS
 from mnist_study.figures import FIGURES
 
 SITE = Path("site")
+NAMES = {"mlp": "MLP", "cnn": "CNN", "mlp_wide": "Wide MLP"}
 REPO = "https://github.com/Pchambet/mnist-case-study"
 
 
@@ -61,9 +62,15 @@ def _pct(x: float, nd: int = 2) -> str:
     return f"{x * 100:.{nd}f}%"
 
 
+def _pct_sig(x: float, sig: int = 2) -> str:
+    """Percentage with `sig` significant digits: 0.000146 -> '0.015%'."""
+    return f"{float(f'{x * 100:.{sig}g}'):g}%"
+
+
 def build_report(out: Path = SITE) -> Path:
     s = json.loads((RESULTS / "summary.json").read_text())
     mlp, cnn, cmp_ = s["models"]["mlp"], s["models"]["cnn"], s["comparison"]
+    wide, cap = s["models"]["mlp_wide"], s["capacity_control"]
     lo, hi = cmp_["bootstrap_95ci"]
     pmax = max(m["p_value"] for m in cmp_["mcnemar_per_seed"])
     mc0 = cmp_["mcnemar_per_seed"][0]
@@ -80,7 +87,7 @@ def build_report(out: Path = SITE) -> Path:
         for m in cmp_["mcnemar_per_seed"]
     )
     run_rows = "".join(
-        f"<tr><td>{r['model'].upper()}</td><td>{r['seed']}</td><td>{int(r['params']):,}</td>"
+        f"<tr><td>{NAMES[r['model']]}</td><td>{r['seed']}</td><td>{int(r['params']):,}</td>"
         f"<td>{r['best_epoch']}/{r['epochs_run']}</td><td>{_pct(float(r['val_accuracy']))}</td>"
         f"<td>{_pct(float(r['test_accuracy']))}</td><td>{r['test_errors']}</td>"
         f"<td>{float(r['test_nll']):.4f}</td><td>{_pct(float(r['test_ece']))}</td></tr>"
@@ -113,8 +120,8 @@ def build_report(out: Path = SITE) -> Path:
         "__BUDGET__": _pct(s["error_budget"], 1),
         "__MLP_COV__": _pct(mlp["error_budget_coverage_mean"], 1),
         "__CNN_COV__": _pct(cnn["error_budget_coverage_mean"], 1),
-        "__MLP_BERR__": _pct(mlp["error_budget_error_mean"], 2),
-        "__CNN_BERR__": _pct(cnn["error_budget_error_mean"], 2),
+        "__MLP_BERR__": _pct_sig(mlp["error_budget_error_mean"]),
+        "__CNN_BERR__": _pct_sig(cnn["error_budget_error_mean"]),
         "__MLP_ECE__": _pct(mlp["ece_mean"]),
         "__MLP_MAN__": _pct(1 - mlp["error_budget_coverage_mean"], 1),
         "__CNN_MAN__": _pct(1 - cnn["error_budget_coverage_mean"], 1),
@@ -122,6 +129,16 @@ def build_report(out: Path = SITE) -> Path:
         "__CNN_ORACLE__": _pct(cnn["error_budget_oracle_coverage_mean"], 1),
         "__SPREAD__": str(max(_spread(m) for m in ("mlp", "cnn"))),
         "__GAP__": f"{mlp['test_errors_mean'] - cnn['test_errors_mean']:.0f}",
+        "__WIDE_PARAMS__": f"{wide['params']:,}",
+        "__WIDE_ACC__": _pct(wide["test_accuracy_mean"]),
+        "__WIDE_STD__": _pct(wide["test_accuracy_std"]),
+        "__WIDE_ERR__": f"{wide['test_errors_mean']:.0f}",
+        "__WIDE_SHIFT2__": _pct(wide["shift_accuracy_mean"][2], 1),
+        "__WIDE_COV__": _pct(wide["error_budget_coverage_mean"], 1),
+        "__CAP_GAIN__": f"{cap['accuracy_gain_cnn_minus_mlp_wide'] * 100:.2f}",
+        "__CAP_LO__": f"{cap['bootstrap_95ci'][0] * 100:.2f}",
+        "__CAP_HI__": f"{cap['bootstrap_95ci'][1] * 100:.2f}",
+        "__CAP_PMAX__": f"{max(m['p_value'] for m in cap['mcnemar_per_seed']):.1g}",
         "__CNN_ECE__": _pct(cnn["ece_mean"]),
         "__MLP_CONF__": conf_list(mlp),
         "__CNN_CONF__": conf_list(cnn),
@@ -211,7 +228,7 @@ paired statistics, calibration, robustness to shifted inputs, and a concrete aut
 on the untouched 10,000-image test set. The <span class="amber">MLP</span> reaches __MLP_ACC__ ± __MLP_STD__,
 the <span class="teal">CNN</span> __CNN_ACC__ ± __CNN_STD__ (mean ± sd across seeds).</p>
 <div id="c-errors" class="chart" style="height:240px"></div>
-<p class="takeaway">Within a model, seeds move the error count by at most __SPREAD__ digits; switching architecture moves it by __GAP__.</p>
+<p class="takeaway">Within the MLP or the CNN, seeds move the error count by at most __SPREAD__ digits; switching architecture moves it by __GAP__.</p>
 <p>Is the gap real or test-set luck? Two paired checks on the same 10,000 images. A paired bootstrap over
 test images puts the gain at +__GAIN__ points (95% CI __CI_LO__ to __CI_HI__). McNemar's exact test, seed by
 seed, counts the digits only one model gets right: for seed 0, __MC_B__ digits only the MLP gets right
@@ -220,6 +237,12 @@ __PMAX__.</p>
 <div class="scroll"><table>
 <thead><tr><th>Seed</th><th>Only MLP right</th><th>Only CNN right</th><th>Both wrong</th><th>McNemar p</th></tr></thead>
 <tbody>__MC_ROWS__</tbody></table></div>
+<p><strong>Capacity or convolution?</strong> The CNN has about twice the MLP's parameters. A wider MLP
+(784-256-128-10, __WIDE_PARAMS__ parameters, more than the CNN) trained with the same recipe reaches
+__WIDE_ACC__ ± __WIDE_STD__, i.e. __WIDE_ERR__ errors: no better than the small MLP. The CNN beats it by
++__CAP_GAIN__ points (95% CI __CAP_LO__ to __CAP_HI__; largest McNemar p over seeds __CAP_PMAX__), and the wide MLP
+is no more tolerant of shifts (__WIDE_SHIFT2__ at 2 px); under the error budget of section 3 it automates
+__WIDE_COV__ of the stream. Parameter count does not explain the gap.</p>
 
 <h2>2. Robustness: move the digit a few pixels</h2>
 <p>MNIST digits are centred by centre of mass. Real inputs rarely are. Each test digit is shifted by
@@ -243,8 +266,10 @@ budget would allow __MLP_ORACLE__ and __CNN_ORACLE__. The 6,000-digit validation
 errors to calibrate a 0.1% threshold on, and the MLP pays more for that caution.</p>
 
 <h2>4. Can the confidences be trusted?</h2>
-<p>Expected calibration error (15 equal-width bins): MLP __MLP_ECE__, CNN __CNN_ECE__. Points on the
-diagonal mean "90% confident" is right about 90% of the time.</p>
+<p>Expected calibration error (15 equal-width bins, mean over seeds): MLP __MLP_ECE__, CNN __CNN_ECE__.
+Points on the diagonal mean "90% confident" is right about 90% of the time. The diagram pools the
+__NSEEDS__ seeds; over 93% of digits fall in the top bin, which dominates the ECE. Good calibration lets the
+score be read as a probability; the threshold rule of section 3 only needs the ranking of confidences.</p>
 <div id="c-rel" class="chart"></div>
 
 <h2>5. Where the errors are</h2>
@@ -261,8 +286,9 @@ diagonal mean "90% confident" is right about 90% of the time.</p>
 <h2>Limitations</h2>
 <ul>
 <li>__NSEEDS__ seeds per model is enough to show the seed spread is small next to the gap, not to estimate it precisely.</li>
-<li>Neither architecture is tuned (no augmentation, no learning-rate schedule, no hyper-parameter search); the comparison is between two textbook models of similar size, not between the best of each family.</li>
-<li>The translation test is synthetic; it isolates one property (shift sensitivity) rather than modelling a real capture process.</li>
+<li>Neither architecture is tuned (no augmentation, no learning-rate schedule, no hyper-parameter search); the comparison is between two textbook models of the same order of size (the CNN has about twice the parameters), not between the best of each family.</li>
+<li>Architecture and capacity are separated by one control only: the wide MLP matches the CNN's parameter count, but both MLPs use dropout and the CNN does not, and no regularisation was tuned for either.</li>
+<li>The translation test is synthetic; it isolates one property (shift sensitivity) rather than modelling a real capture process. Diagonal directions move <em>d</em> px along each axis, and at 4 px about a quarter of shifted digits lose some stroke at the border (98.7% of ink kept on average), so part of the 4 px drop is lost information, not fragility.</li>
 <li>The 0.1% budget threshold is set on 6,000 validation digits, i.e. about six tolerated errors, so it is itself noisy; the realised test error is reported next to it.</li>
 </ul>
 
@@ -339,7 +365,7 @@ function draw() {
 
   // 5. learning curves
   const seen = {};
-  Plotly.react("c-lc", Object.entries(D.lc).map(([k, v]) => {
+  Plotly.react("c-lc", Object.entries(D.lc).filter(([k]) => models.includes(k.split("|")[0])).map(([k, v]) => {
     const m = k.split("|")[0], first = !seen[m]; seen[m] = true;
     return { type: "scatter", mode: "lines+markers", name: NAME[m], legendgroup: m, showlegend: first,
       x: v.x, y: v.y, line: { color: C[m], width: 2 }, marker: { size: 6, color: C[m] },

diff --git a/src/mnist_study/figures.py b/src/mnist_study/figures.py
@@ -15,11 +15,13 @@ import numpy as np
 
 from mnist_study.analyze import RESULTS
 from mnist_study.data import RAW_PATH, load_npz
+from mnist_study.models import MODEL_NAMES
 
 FIGURES = Path("docs/figures")
 INK, MUTED, GRID = "#0f172a", "#64748b", "#e2e8f0"
 COLORS = {"mlp": "#d97706", "cnn": "#0d9488"}
 LABELS = {"mlp": "MLP (109k params)", "cnn": "CNN (225k params)"}
+WIDE_LABEL = "Wide MLP (235k params)"
 
 plt.rcParams.update(
     {
@@ -68,17 +70,20 @@ def hero() -> Path:
     runs = _rows("runs.csv")
     fig, (ax1, ax2) = plt.subplots(1, 2, figsize=(11, 4.2), gridspec_kw={"width_ratios": [1, 1.5]})
 
-    for i, name in enumerate(("mlp", "cnn")):
+    # Bottom to top: CNN, the wide MLP (capacity control, same parameter count), MLP.
+    bars = [("cnn", LABELS["cnn"], COLORS["cnn"]), ("mlp_wide", WIDE_LABEL, MUTED)]
+    bars.append(("mlp", LABELS["mlp"], COLORS["mlp"]))
+    for i, (name, _, color) in enumerate(bars):
         errs = [int(r["test_errors"]) for r in runs if r["model"] == name]
         mean = np.mean(errs)
-        ax1.barh(i, mean, color=COLORS[name], height=0.55, alpha=0.9)
+        ax1.barh(i, mean, color=color, height=0.55, alpha=0.9)
         ax1.scatter(errs, [i] * len(errs), color=INK, s=14, zorder=3)
         ax1.text(max(errs) + 8, i, f"{mean:.0f} errors", va="center", color=INK, fontsize=10)
-    ax1.set_yticks([0, 1], [LABELS["mlp"], LABELS["cnn"]])
+    ax1.set_yticks(range(len(bars)), [label for _, label, _ in bars])
     ax1.set_xlabel("Misclassified test digits (of 10,000); dots = seeds")
     ax1.set_xlim(0, max(int(r["test_errors"]) for r in runs) * 1.35)
     ax1.grid(axis="y", visible=False)
-    ax1.set_title("Clean test set")
+    ax1.set_title("Clean test set\n(doubling the MLP's width does not help)")
 
     px = np.arange(len(s["models"]["mlp"]["shift_accuracy_mean"]))
     for name in ("mlp", "cnn"):
@@ -129,34 +134,36 @@ def risk_coverage() -> Path:
     s = _summary()
     curves = defaultdict(lambda: ([], []))
     for r in _rows("risk_coverage.csv"):
+        if r["model"] not in MODEL_NAMES:
+            continue
         curves[r["model"]][0].append(float(r["coverage"]) * 100)
         curves[r["model"]][1].append(float(r["selective_error"]) * 100)
     fig, ax = plt.subplots(figsize=(7.5, 4.2))
-    offsets = {"mlp": (-30, 55), "cnn": (-20, 80)}
     for name, (cov, err) in curves.items():
         ax.plot(cov, err, color=COLORS[name], lw=2, label=LABELS[name])
         m = s["models"][name]
         c, e = m["error_budget_coverage_mean"] * 100, m["error_budget_error_mean"] * 100
         ax.scatter([c], [e], color=COLORS[name], s=60, zorder=3, edgecolor="white", lw=1.5)
-        ax.annotate(
-            f"{c:.1f}% automated\n(threshold set on validation)",
-            (c, e),
-            xytext=offsets[name],
-            textcoords="offset points",
-            ha="center",
-            color=INK,
-            fontsize=9.5,
-            arrowprops={"arrowstyle": "-", "color": MUTED, "lw": 0.8},
-        )
+    # A text key instead of arrows: any arrow to the CNN point would cross the MLP curve.
+    cov = {m: s["models"][m]["error_budget_coverage_mean"] for m in ("mlp", "cnn")}
+    ax.text(
+        51,
+        0.56,
+        "Dots: threshold chosen on validation, applied to test\n"
+        f"MLP {cov['mlp']:.1%} automated · CNN {cov['cnn']:.1%}",
+        color=INK,
+        fontsize=9.5,
+        va="top",
+    )
     budget = s["error_budget"] * 100
     ax.axhline(budget, color=MUTED, lw=1, ls="--")
     ax.text(
-        99.5,
+        50.5,
         budget,
         f"error budget {budget:.1f}%",
         color=MUTED,
         fontsize=9,
-        ha="right",
+        ha="left",
         va="bottom",
     )
     ax.set_xlabel("Coverage: share of digits accepted automatically (%)")
@@ -164,7 +171,6 @@ def risk_coverage() -> Path:
     ax.set_xlim(50, 100)
     ax.set_ylim(0, 0.8)
     ax.legend(frameon=False, loc="upper left")
-    cov = {m: s["models"][m]["error_budget_coverage_mean"] for m in ("mlp", "cnn")}
     ax.set_title(
         f"Holding errors to ≤{budget:.1f}%, the CNN reads {cov['cnn']:.0%} of digits "
         f"automatically, the MLP {cov['mlp']:.0%}"
@@ -193,8 +199,9 @@ def reliability() -> Path:
     axes[0].set_ylabel("Observed accuracy")
     fig.suptitle(
         "Both models are well calibrated: expected calibration error below "
-        f"{max(s['models'][m]['ece_mean'] for m in ('mlp', 'cnn')) * 100:.1f}% "
-        "(marker area = number of digits)",
+        f"{max(s['models'][m]['ece_mean'] for m in ('mlp', 'cnn')) * 100:.1f}%\n"
+        f"ECE is the mean over seeds; the diagram pools the {len(s['models']['mlp']['seeds'])} "
+        "seeds (marker area = number of digits)",
         x=0.01,
         ha="left",
         fontsize=11.5,
@@ -208,6 +215,8 @@ def learning_curves() -> Path:
     fig, ax = plt.subplots(figsize=(7.5, 4))
     by = defaultdict(lambda: ([], []))
     for r in _rows("learning_curves.csv"):
+        if r["model"] not in MODEL_NAMES:
+            continue
         key = (r["model"], r["seed"])
         by[key][0].append(int(r["epoch"]))
         by[key][1].append(float(r["val_loss"]))

diff --git a/src/mnist_study/shift.py b/src/mnist_study/shift.py
@@ -1,8 +1,10 @@
 """Rigid translations of digit images.
 
 MNIST digits are centred by centre of mass in a 28x28 frame with a ~4 px
-margin, so shifts up to 4 px keep the stroke inside the image; any pixel pushed
-past the border is dropped and vacated pixels are filled with background (0).
+margin. Any pixel pushed past the border is dropped and vacated pixels are
+filled with background (0). Diagonal directions move d px along each axis. On
+the test set, 99.9% of the ink survives a 2 px shift and 98.7% a 4 px shift,
+but at 4 px about a quarter of (digit, direction) pairs lose more than 2%.
 """
 
 from __future__ import annotations
